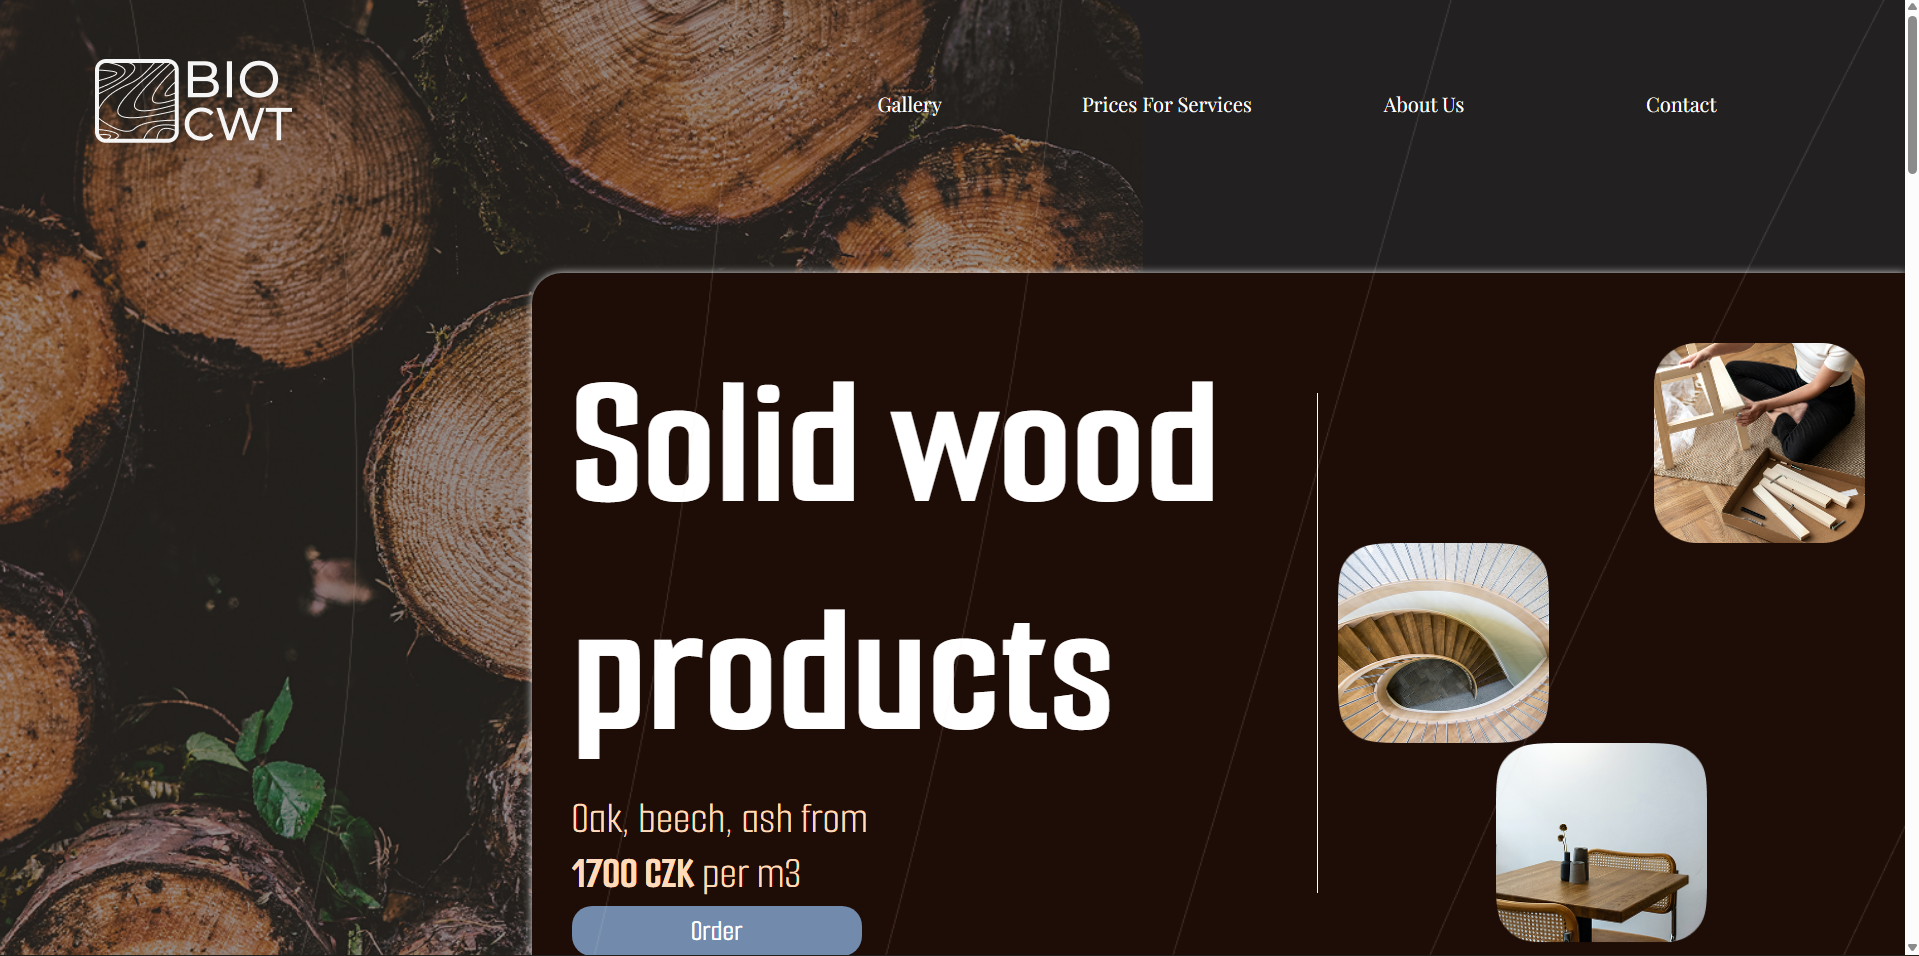
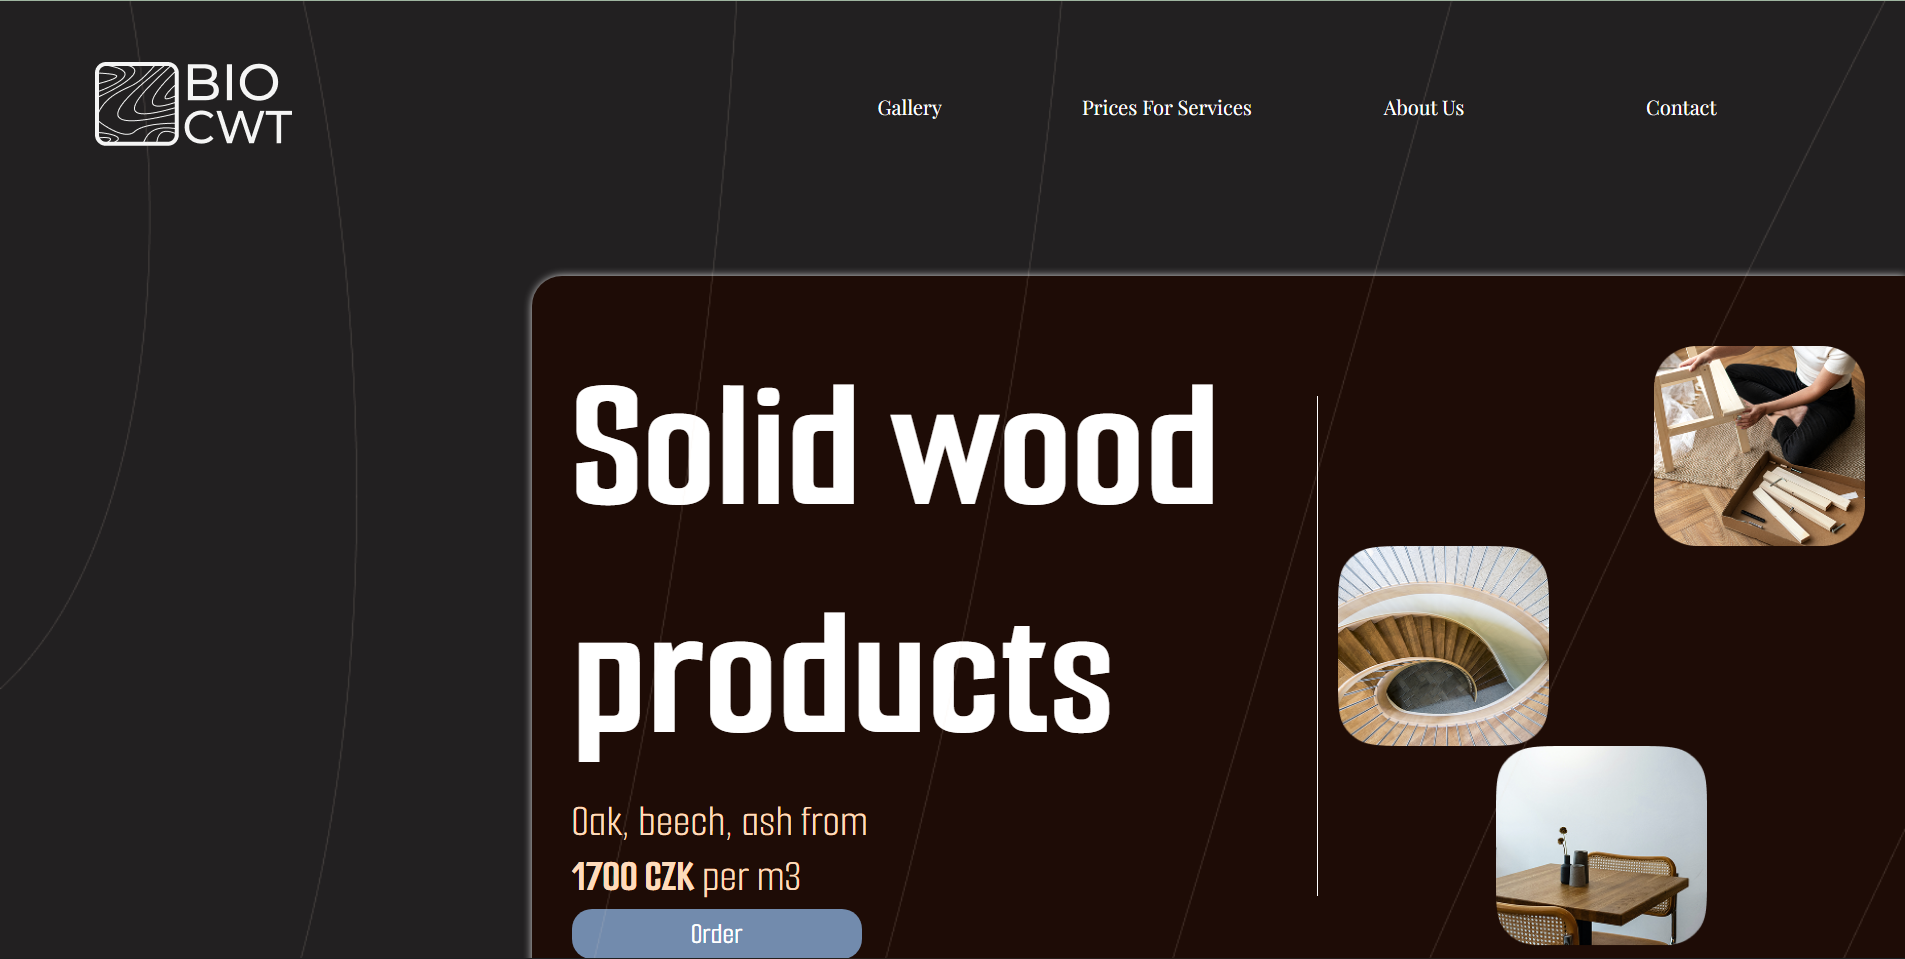
fixes

diff --git a/css/styles.css b/css/styles.css
@@ -21,7 +21,10 @@ a {
 
 body {
     background: rgb(30, 30, 30);
-
+overflow-x: hidden;
+}
+.wrapper {
+    overflow: hidden;
 }
 
 .wrapper {
@@ -153,7 +156,7 @@ nav {
 }
 
 .ExpertiseItemImg {
-    width: 15%;
+    width: 13%;
     height: 100%;
 }
 
@@ -286,7 +289,7 @@ main {
 
 aside {
     width: 100%;
-    height: 600px;
+    height: auto;
     display: flex;
     background: rgb(30, 30, 30);
     flex-wrap: wrap;
@@ -295,6 +298,7 @@ aside {
     opacity: 0;
     transform: translateY(50px);
     transition: opacity 0.6s ease, transform 0.6s ease;
+    gap: 30px;
 }
 
 .asideItem {
@@ -446,7 +450,7 @@ footer {
 }
 
 aside a {
-    width: 30%;
+    width: 35%;
     height: auto;
 }
 

diff --git a/js/script.js b/js/script.js
@@ -29,5 +29,4 @@ window.addEventListener('scroll', () => {
     nav.classList.add('navScrolled')
     NavLogo.style.display = "none"
   }
-  console.log(scrollPosition)
 })
